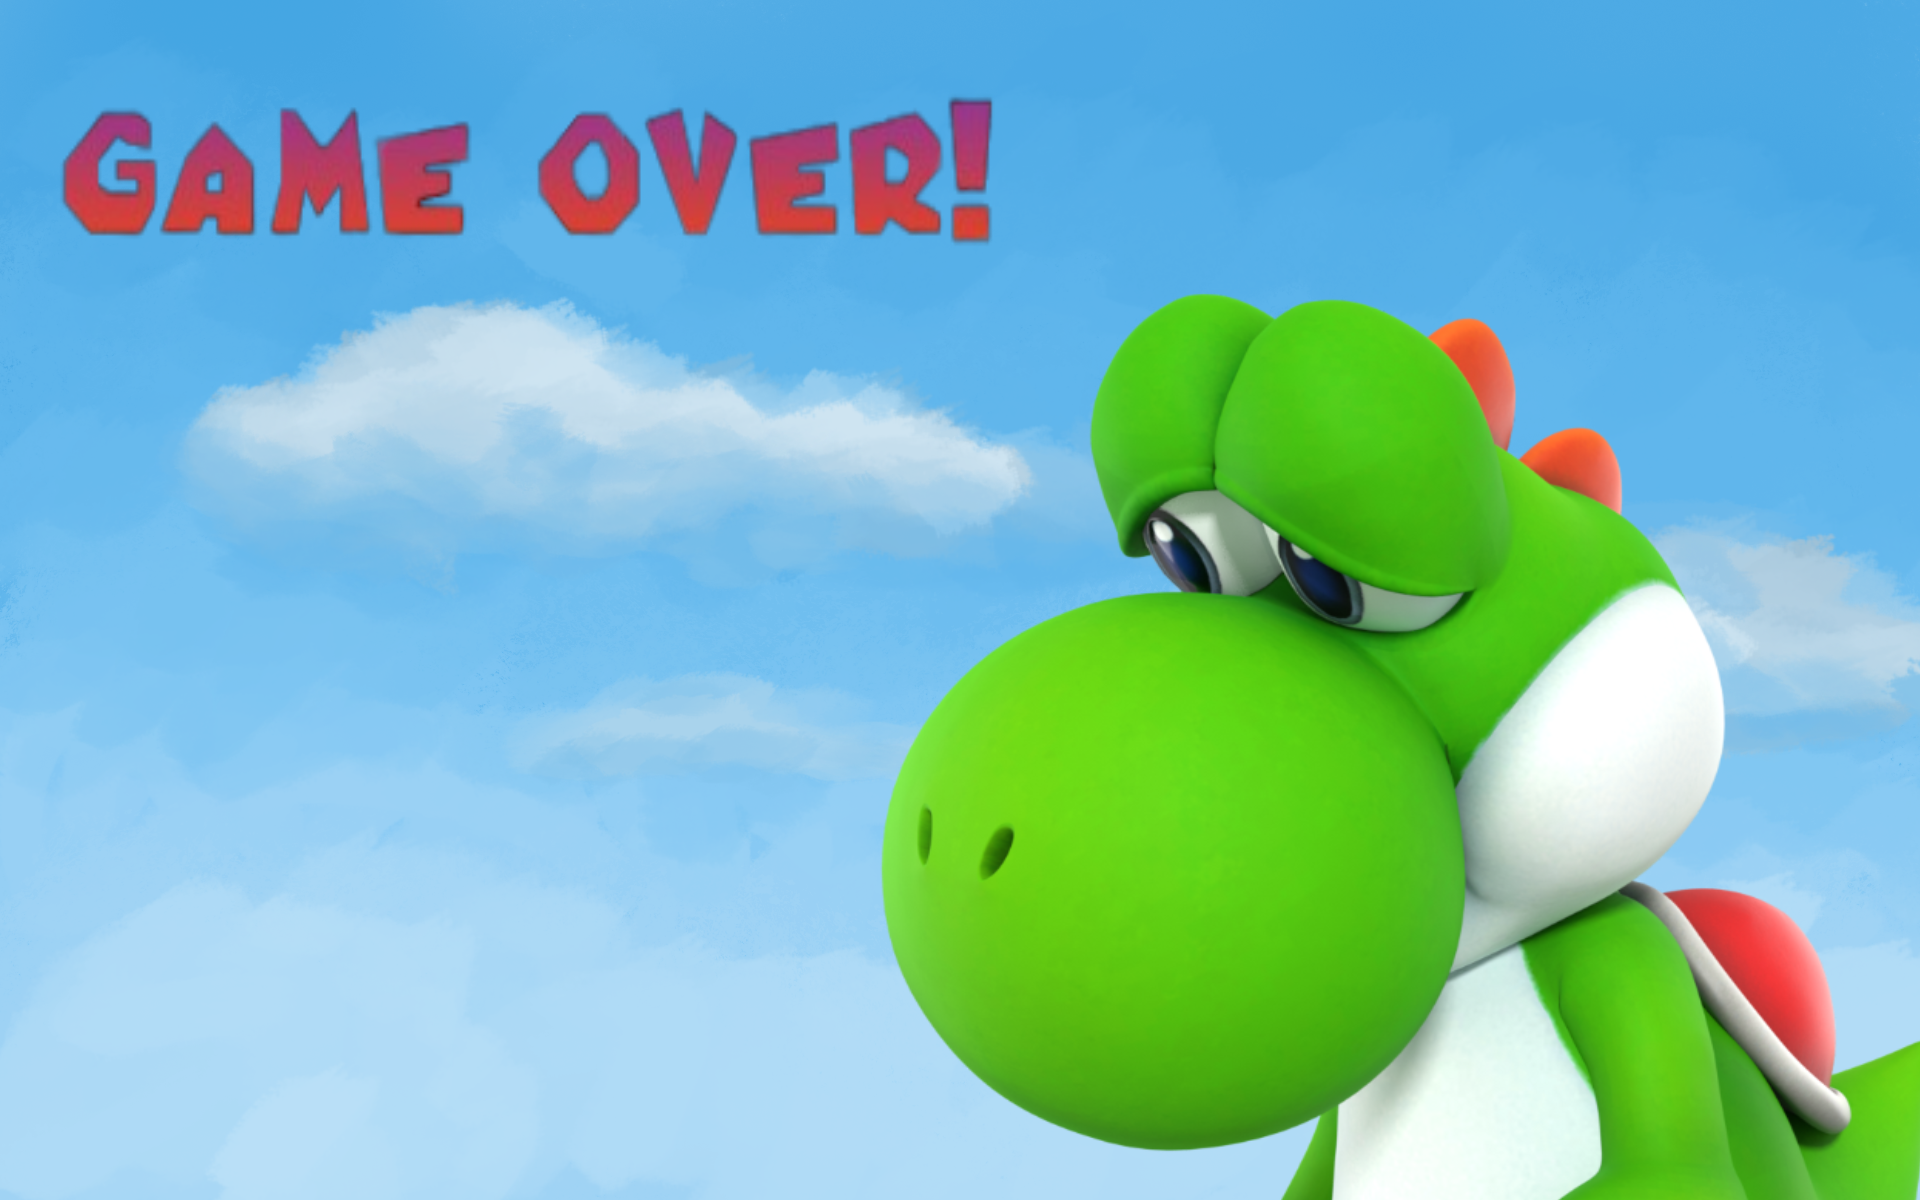
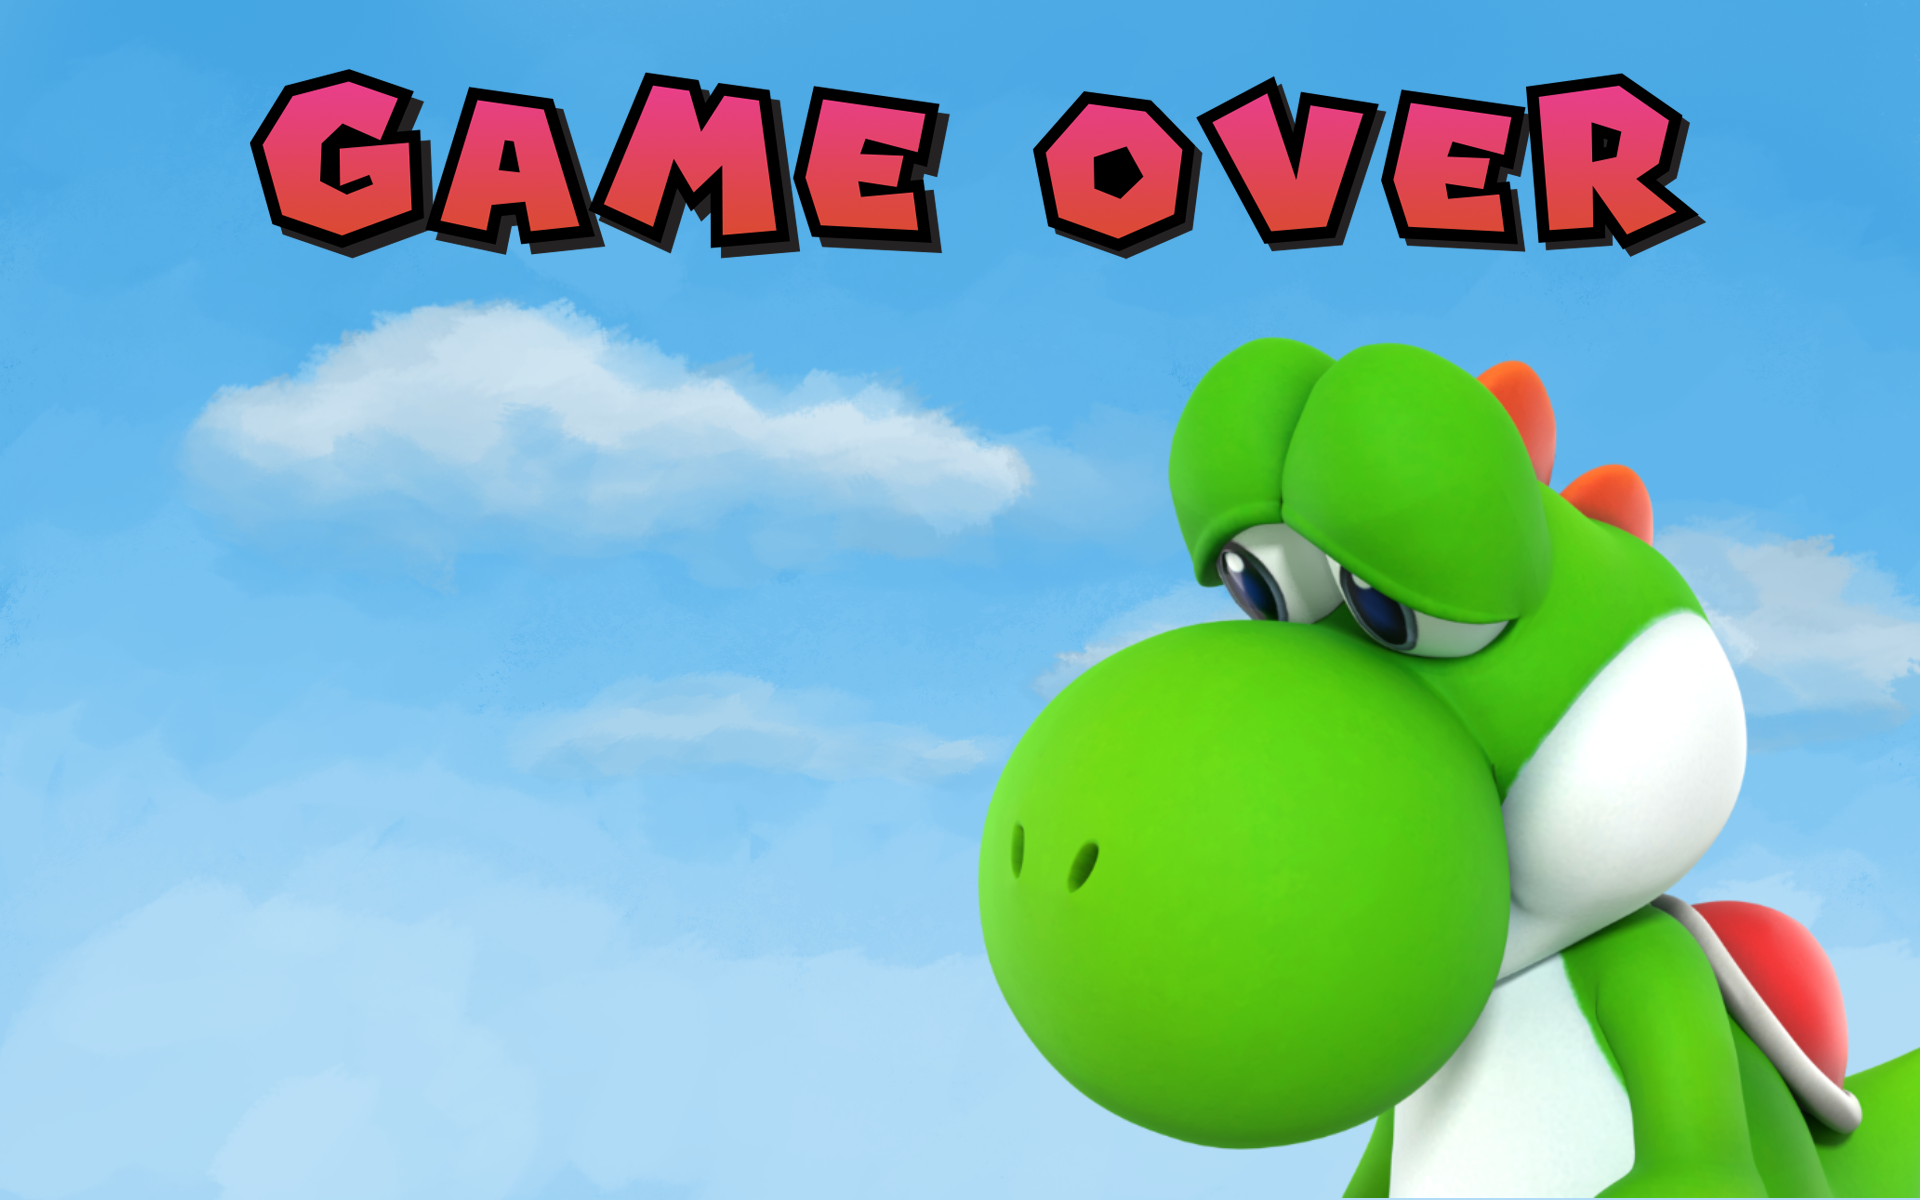
update

Changed region(s): [[0.4375, 0.2467, 1.0, 1.0], [0.0312, 0.0617, 0.9062, 0.2158]]

diff --git a/src/game/stage.cpp b/src/game/stage.cpp
@@ -10,16 +10,17 @@ MenuStage::MenuStage()
 	background_mat.diffuse = Texture::Get("data/Icons/start_menu.png");
 	background = new EntityUI(Vector2(width * 0.5, height * 0.5), Vector2(width, height), background_mat);
 
-	//Material play_mat;
-	//play_mat.diffuse = Texture::Get("data");
-	//play_button = new EntityUI(Vector2(width * 0.5, 400), Vector2(240,60), play_mat, eButtonId::PlayButton);
+	Material play_mat;
+	play_mat.diffuse = Texture::Get("data/hud/start_button2.png");
+	play_button = new EntityUI(Vector2(width * 0.5, 400), Vector2(800,400), play_mat, eButtonId::PlayButton);
+	play_button->over_texture = Texture::Get("data/hud/start_button.png");
 
 
 	//Material exit_mat;
 	//exit_mat.diffuse = Texture::Get("data");
 	//exit_button = new EntityUI(Vector2(width * 0.5, 400), Vector2(240, 60), exit_mat, eButtonId::ExitButton);
 
-	//background->addChild(play_button);
+	background->addChild(play_button);
 	//background->addChild(exit_button);
 
 }
@@ -80,7 +81,7 @@ GameOverStage::GameOverStage()
 	int height = Game::instance->window_height;
 
 	Material background_mat;
-	background_mat.diffuse = Texture::Get("data/hud/game_over.png");
+	background_mat.diffuse = Texture::Get("data/hud/game_over2.png");
 	background = new EntityUI(Vector2(width * 0.5, height * 0.5), Vector2(width, height), background_mat);
 }
 

diff --git a/src/framework/entities/entityUI.cpp b/src/framework/entities/entityUI.cpp
@@ -17,6 +17,8 @@ EntityUI::EntityUI(Vector2 pos, Vector2 size, const Material& material, eButtonI
 	mesh->createQuad(pos.x, pos.y, size.x, size.y, true);
 
 	this->material = material;
+	
+	this->original_texture = material.diffuse;
 
 	if (!this->material.shader) {
 		if (material.diffuse) {
@@ -142,14 +144,14 @@ void EntityUI::update(double seconds_elapsed) {
 		mousepos.y >(position.y - size.y * 0.5f) &&
 		mousepos.y < (position.y + size.y * 0.5f)) {
 		
-		material.color = Vector4::RED;
+		material.diffuse = over_texture;
 		if (Input::isMousePressed(SDL_BUTTON_LEFT)) {
 			//Stage::get_instance()->current->onButtonPressed(button_id);
 		}
 
 	}
 	else {
-		material.color = Vector4::WHITE;
+		material.diffuse = original_texture;
 	}
 
 	Entity::update(seconds_elapsed);

diff --git a/src/framework/entities/entityUI.h b/src/framework/entities/entityUI.h
@@ -20,6 +20,10 @@ class EntityUI : public EntityMesh {
 		bool visible = true;
 		float mask;
 
+
+		Texture* original_texture;
+		Texture* over_texture;
+
 		//3D HUD
 		bool is3D = false;
 		Vector3 pos3d;

diff --git a/src/game/stage.h b/src/game/stage.h
@@ -48,6 +48,7 @@ public:
 	MenuStage();
 
 	EntityUI* background = nullptr;
+	EntityUI* play_button = nullptr;
 	/*EntityUI* play_button = nullptr;
 	EntityUI* exit_button = nullptr;*/
 
